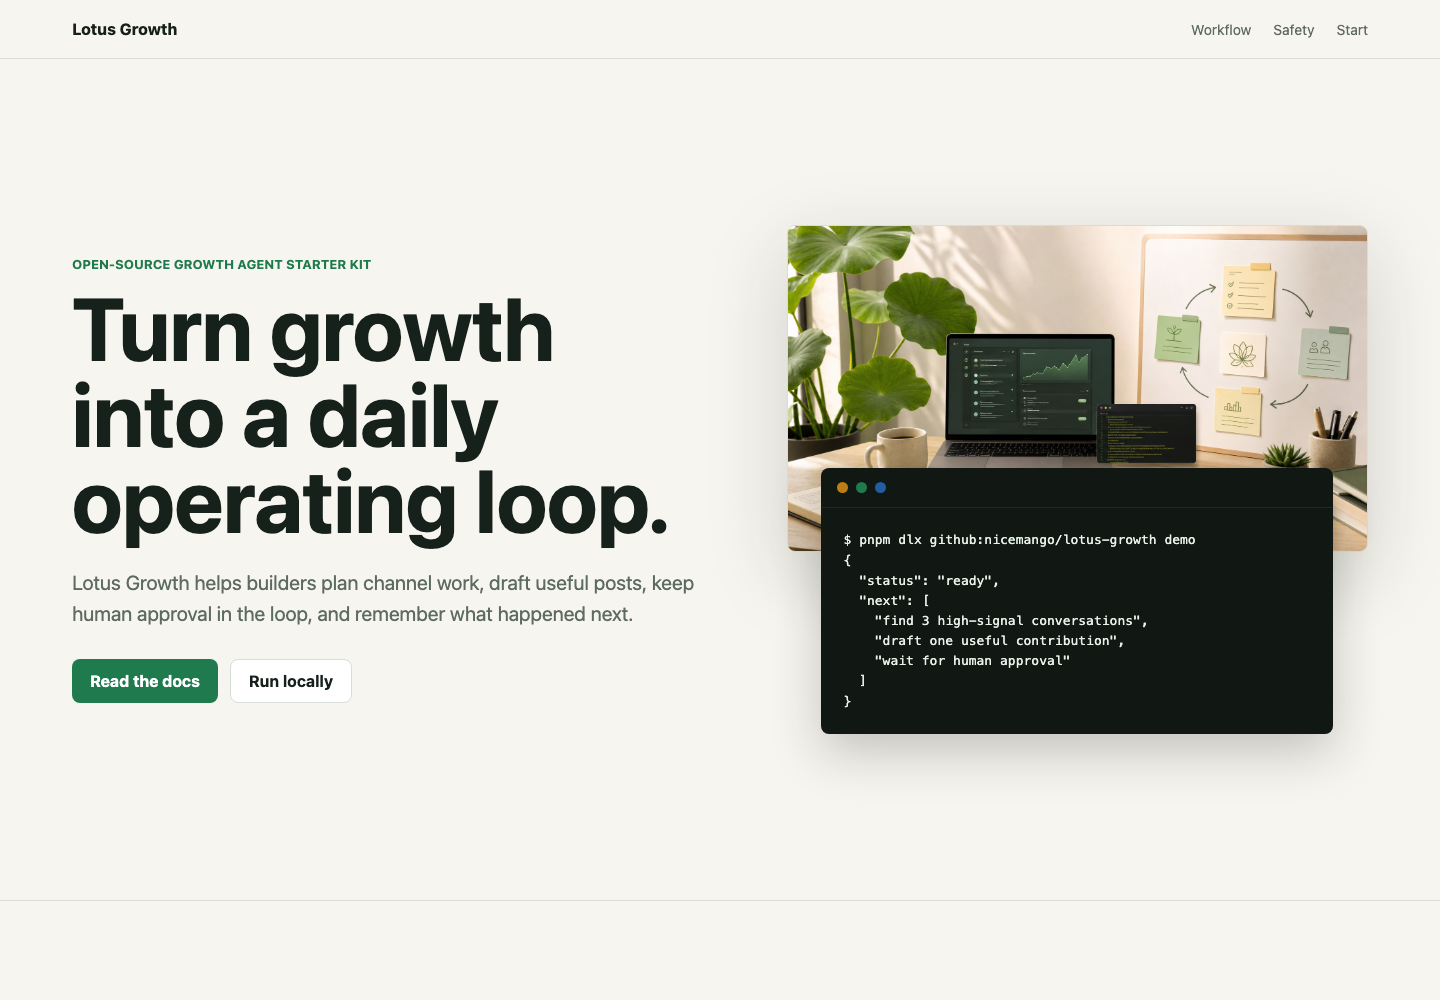
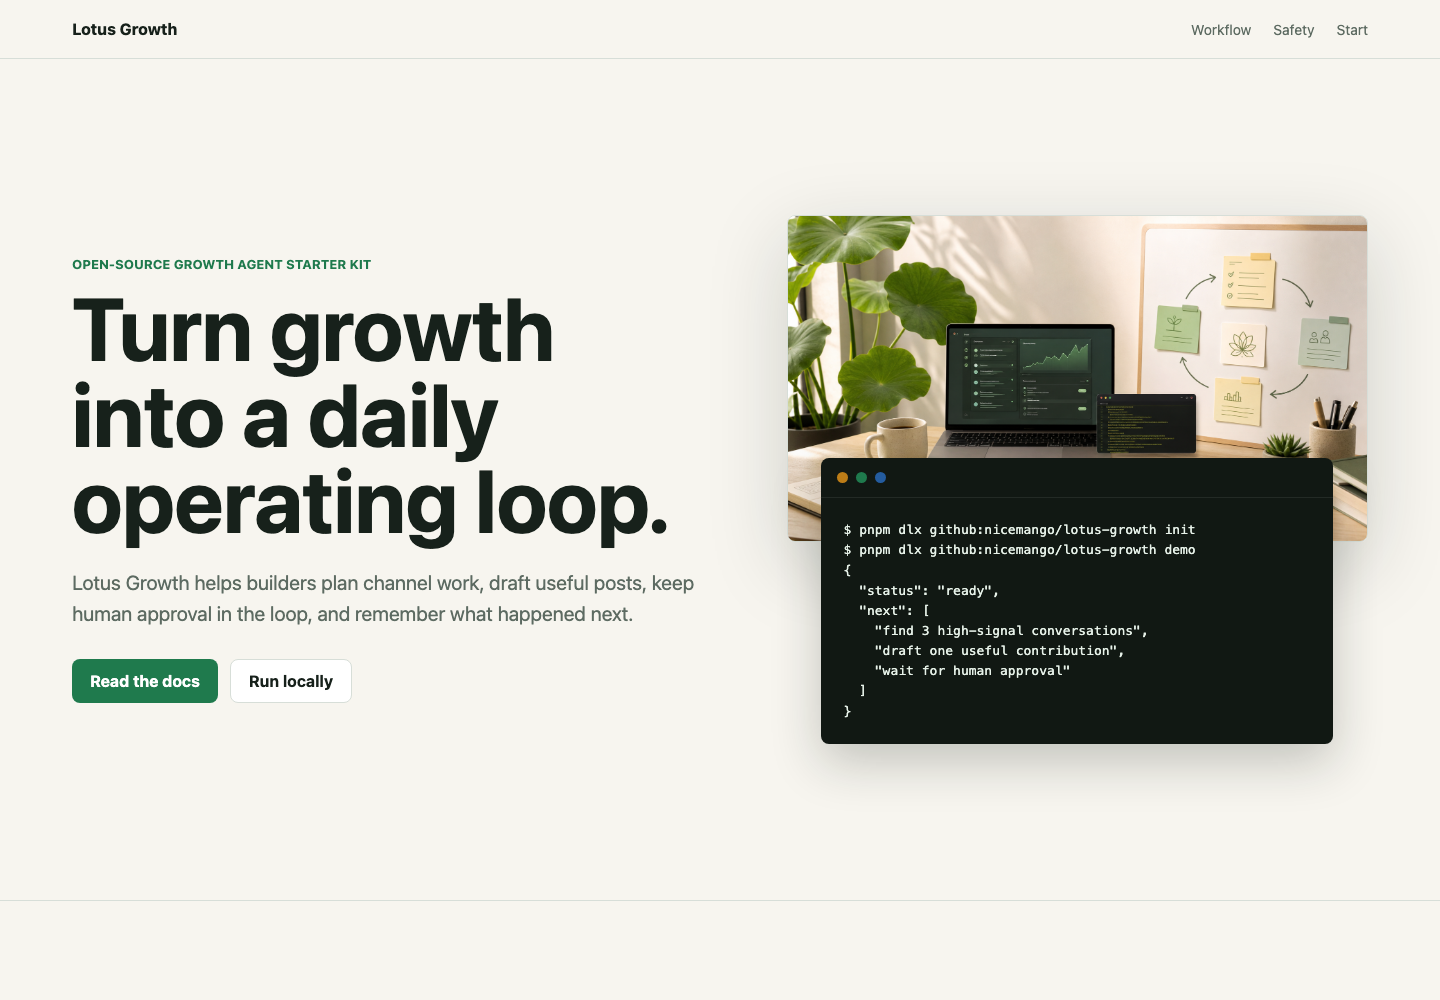
fix(cli): support dlx usage outside repo

Changed region(s): [[0.5312, 0.217, 0.9688, 0.682], [0.5625, 0.713, 0.9375, 0.744]]

diff --git a/website/index.html b/website/index.html
@@ -36,7 +36,8 @@
             <div class="terminal-bar">
               <span></span><span></span><span></span>
             </div>
-            <pre><code>$ pnpm dlx github:nicemango/lotus-growth demo
+            <pre><code>$ pnpm dlx github:nicemango/lotus-growth init
+$ pnpm dlx github:nicemango/lotus-growth demo
 {
   "status": "ready",
   "next": [
@@ -88,7 +89,8 @@
 
       <section id="start" class="section start">
         <h2>Run the starter kit</h2>
-        <pre><code>pnpm dlx github:nicemango/lotus-growth demo
+        <pre><code>pnpm dlx github:nicemango/lotus-growth init
+pnpm dlx github:nicemango/lotus-growth demo
 pnpm dlx github:nicemango/lotus-growth plan
 pnpm dlx github:nicemango/lotus-growth draft "Your topic"</code></pre>
       </section>

diff --git a/README.md b/README.md
@@ -25,12 +25,16 @@ Lotus Growth gives you a small foundation for that system.
 Run it without cloning the repository:
 
 ```bash
+mkdir my-growth-agent
+cd my-growth-agent
+pnpm dlx github:nicemango/lotus-growth init
 pnpm dlx github:nicemango/lotus-growth demo
 ```
 
 Run individual commands the same way:
 
 ```bash
+pnpm dlx github:nicemango/lotus-growth init
 pnpm dlx github:nicemango/lotus-growth status
 pnpm dlx github:nicemango/lotus-growth plan
 pnpm dlx github:nicemango/lotus-growth draft "What changed after using a daily growth queue"
@@ -47,6 +51,7 @@ lotus-growth plan
 ## What You Get
 
 - A minimal Node.js CLI: `lotus-growth`
+- An `init` command that creates editable local config
 - Example project, agent, and account configuration
 - A simple growth planning loop
 - A sample draft generator
@@ -69,6 +74,7 @@ Project context
 ## Commands
 
 ```bash
+pnpm dlx github:nicemango/lotus-growth init
 pnpm dlx github:nicemango/lotus-growth demo
 pnpm dlx github:nicemango/lotus-growth status
 pnpm dlx github:nicemango/lotus-growth plan
